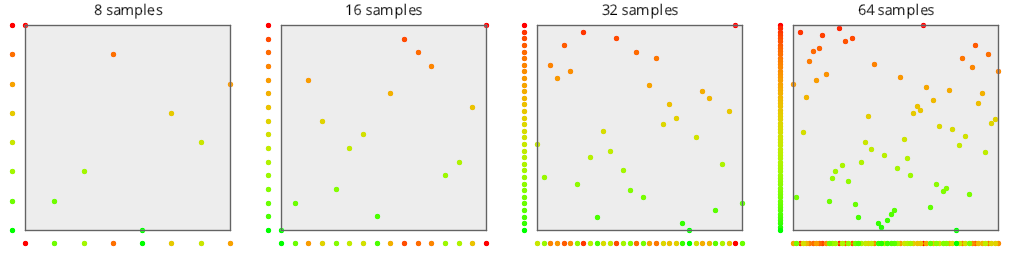
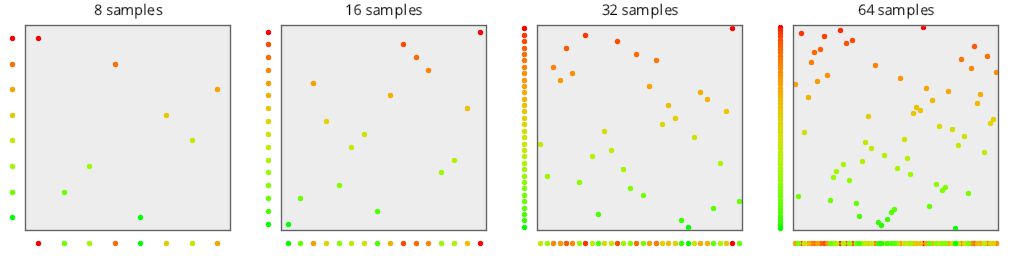
made n rooks a lil better by following regular centered offset best practices

diff --git a/src/main.cpp b/src/main.cpp
@@ -22,9 +22,9 @@ int main(int argc, char **argv)
     // You can also pop open samples.cpp and comment out sampling types .
     // You can also follow this function call down to see what is actually called and comment out the tests (or family of tests) that you don't want it to do while you iterate.
     // Any modifications you make to those files will be undone when you run premake and re-generate code and documentation.
-    _1d::Tests::AutoTest();
+    //_1d::Tests::AutoTest();
     _2d::Tests::AutoTest();
-    ManualTest();
+    //ManualTest();
 
     DataCache::Save();
     return 0;
@@ -33,6 +33,8 @@ int main(int argc, char **argv)
 /*
 TODOs:
 
+? integration test soon?
+
 * is there something better you can do for 2d regular sampling to calculate how much each axis should get in sample count?
  * maybe find the multiples that bring it closest to even on each axis but still perfectly multiply into the number?
  * i really don't know.
@@ -40,13 +42,10 @@ TODOs:
 
 * I don't think hammersley bit truncation is working correctly.  In 8 samples, truncating 1 bit makes there be 4 unique samples.
 
-! hammersley: if you skip index 0, it doesn't help anything, because you then get the zero from the next sequence! This unless you do N-1 sample items, which is kind of weird and doesn't really help anything.
-
 ? is hammerlsey ok with tests doing non power of 2 sample counts on it? i think probably not, but check it out.
 * 2d "plot average" test? could have "average distance from center". Could also just draw a line showing how it moves around the center.. unknown.
 
 * sobol indexes out of range! need to fix. true for 2d, not sure if true for 1d.
-* should N rooks add a half? i think so... i think it should be like regular centered offset for best results.
 
  ? should we do 1d tests on those projections? i think probably yes.
 
@@ -74,5 +73,11 @@ TODOs:
 * document discrepancy test
 * make and document integration test
 ? what other tests make sense?
+
+
+
+Docs:
+! hammersley: if you skip index 0, it doesn't help anything, because you then get the zero from the next sequence! This unless you do N-1 sample items, which is kind of weird and doesn't really help anything.
+* n rooks -> followed regular centered offset best practices
 
 */

diff --git a/src/families/_2d/samples/lds/LDS.cpp b/src/families/_2d/samples/lds/LDS.cpp
@@ -178,11 +178,13 @@ void _2d::Samples::LDS::NRooks(std::vector<Vec2>& values, size_t numValues, std:
         rookPositions[i] = i;
     std::shuffle(rookPositions.begin(), rookPositions.end(), rng);
 
+    float offset = 1.0f / float(numValues * 2);
+
     // convert them to sampling locations
     values.resize(numValues);
     for (size_t i = 0; i < numValues; ++i)
     {
-        values[i][0] = float(rookPositions[i]) / float(numValues - 1);
-        values[i][1] = float(i) / float(numValues - 1);
+        values[i][0] = offset + float(rookPositions[i]) / float(numValues);
+        values[i][1] = offset + float(i) / float(numValues);
     }
 }
